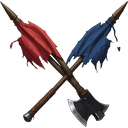
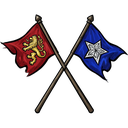
Battles between nations marked by two bold crossed flags, unfurled
Claude-Session: https://claude.ai/code/session_01VCgb1BHiQMmXhDRgRP8RCx

diff --git a/sim/FantasyWorld.Web/wwwroot/js/world.js b/sim/FantasyWorld.Web/wwwroot/js/world.js
@@ -202,7 +202,7 @@ async function showYear(year) {
             lift(maze.at, 0.02), maze.great ? 85 : 60, () => setHash({ panel: `labyrinth/${id(maze.ref)}` }), "labyrinths");
     for (const fight of s.fights)
         // Crossed swords for a duel, crossed banners for a battle between nations; one still raging pulses (the owner, 2026-10-29).
-        label(`<span class="${fight.underWay ? "live" : "past"}">` + marker(fight.kind === "duel" ? "duel" : "battle", fight.kind === "duel" ? 34 : 38, `${fight.underWay ? "Under way" : "Fought"}: a ${fight.kind}`)
+        label(`<span class="${fight.underWay ? "live" : "past"}">` + marker(fight.kind === "duel" ? "duel" : "battle", fight.kind === "duel" ? 34 : 42, `${fight.underWay ? "Under way" : "Fought"}: a ${fight.kind}`)
             + `</span>`, "badge", lift(fight.at, 0.02), fight.underWay ? 90 : 75,
             () => setHash({ panel: `fight/${fight.eventId}` }), "fights");
     for (const place of s.settlements)
